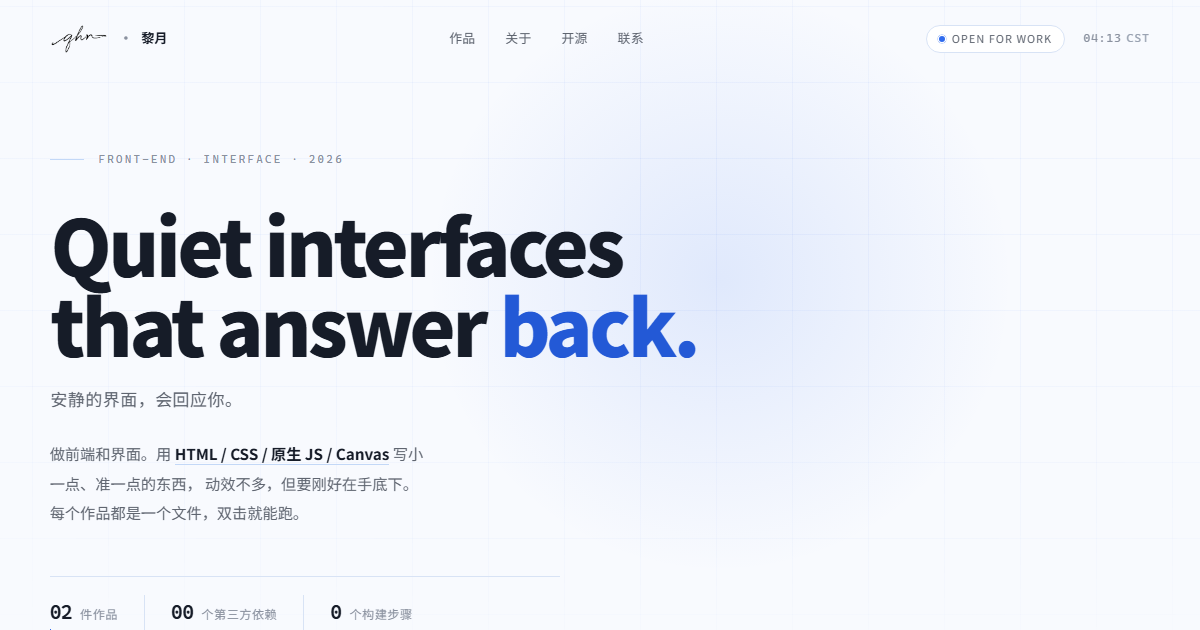
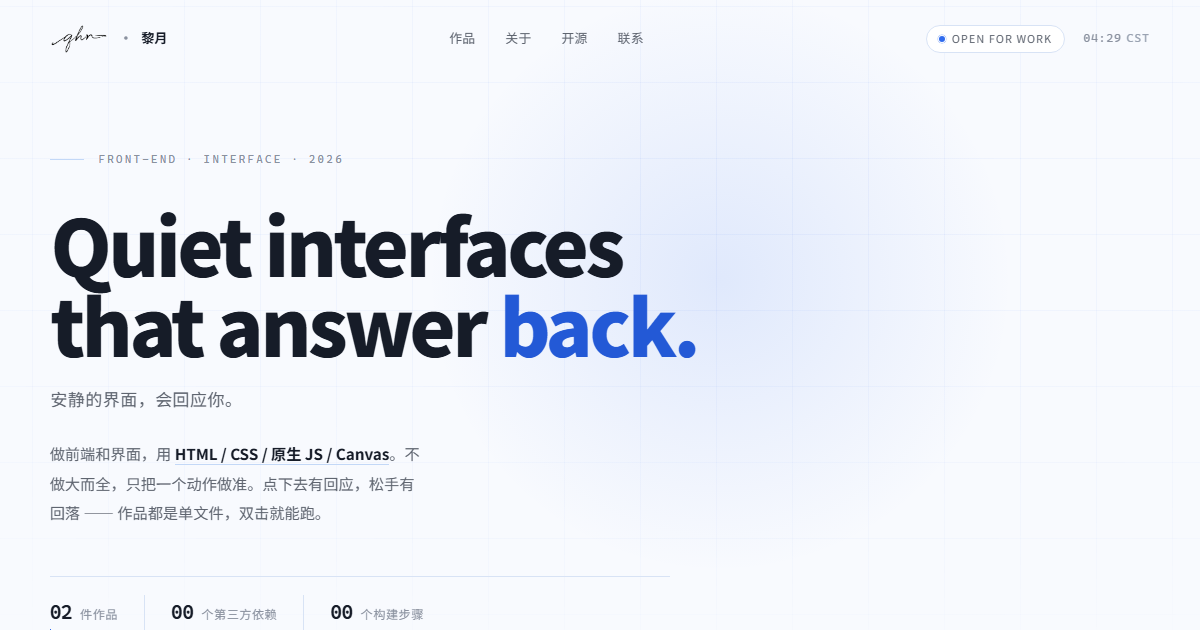
Copy: 首页文案重写
- hero: 收短，讲清「不做大而全，只把一个动作做准」
- 作品 01/02: 去重复表述，补具体细节（30KB 单文件 / 风级与背景可切）
- About: 从白纸开工的具体做法，去掉口号感
- Skill 01/02: 说明更短，pixel-plants 补 PF.mount() 一句
- 联系与页脚微调，og:description 同步，重出分享图

Changed region(s): [[0.0308, 0.754, 0.3392, 0.8444], [0.2775, 0.9651, 0.37, 0.9952], [0.3392, 0.6937, 0.37, 0.7238]]

diff --git a/index.html b/index.html
@@ -4,13 +4,13 @@
 <meta charset="utf-8">
 <meta name="viewport" content="width=device-width, initial-scale=1, viewport-fit=cover">
 <title>黎月 · Front-end & Interface</title>
-<meta name="description" content="黎月的前端作品集：用原生 HTML、CSS、Canvas 做小而有手感的东西。每个作品都是一个文件，双击就能跑。">
+<meta name="description" content="黎月的前端作品集：用 HTML、CSS、原生 JS 和 Canvas，把一个动作做准。作品都是单文件，双击就能跑。">
 <meta name="theme-color" content="#F8FAFE">
 <link rel="icon" href="assets/favicon.ico">
 <meta property="og:type" content="website">
 <meta property="og:site_name" content="黎月 · Front-end & Interface">
 <meta property="og:title" content="黎月 · Front-end & Interface">
-<meta property="og:description" content="安静的界面，会回应你。用原生 HTML、CSS、Canvas 做小而有手感的东西。">
+<meta property="og:description" content="安静的界面，会回应你。不做大而全，只把一个动作做准——作品都是单文件，双击就能跑。">
 <meta property="og:url" content="https://liyuedev.github.io/">
 <meta property="og:image" content="https://liyuedev.github.io/assets/preview.png">
 <meta property="og:image:width" content="1200">
@@ -569,13 +569,12 @@ footer .fright a:hover{color:var(--blue-deep)}
     </h1>
     <p class="hero-zh">安静的界面，会回应你。</p>
     <p class="lede">
-      做前端和界面。用 <b>HTML / CSS / 原生 JS / Canvas</b> 写小一点、准一点的东西，
-      动效不多，但要刚好在手底下。每个作品都是一个文件，双击就能跑。
+      做前端和界面，用 <b>HTML / CSS / 原生 JS / Canvas</b>。不做大而全，只把一个动作做准。点下去有回应，松手有回落 —— 作品都是单文件，双击就能跑。
     </p>
     <div class="stats">
       <span><b>02</b>件作品</span>
       <span><b>00</b>个第三方依赖</span>
-      <span><b>0</b>个构建步骤</span>
+      <span><b>00</b>个构建步骤</span>
     </div>
 
     <aside class="hero-index" aria-label="作品索引">
@@ -598,7 +597,7 @@ footer .fright a:hover{color:var(--blue-deep)}
 
     <!-- 01 -->
     <article class="card card--wide reveal">
-      <div class="preview" data-src="star-rain.html" data-title="把雨接成星光 · 实时预览">
+      <div class="preview" data-src="star-rain.html?embed=1" data-title="把雨接成星光 · 实时预览">
         <div class="cover">
           <strong>Canvas · Live</strong>
           <em>实时运行中</em>
@@ -612,10 +611,7 @@ footer .fright a:hover{color:var(--blue-deep)}
         <h3>把雨接成星光</h3>
         <div class="sub">Rain, kept as starlight</div>
         <p class="en">Every drop an umbrella catches comes back as light.</p>
-        <p class="zh">
-          一把伞接住落下来的雨，每一滴被接住的雨都会变成星光，慢慢飘回天上。
-          整场雨在 Canvas 里逐帧算出来，没有库，没有素材包。
-        </p>
+        <p class="zh">一把伞接住落下来的雨。每一滴被接住的，都会变成一点星光，慢慢飘回天上。整场雨在 Canvas 里逐帧算出来，整页不到 30KB，没有库，也没有素材包。</p>
         <div class="tags">
           <span class="tag">Canvas 2D</span>
           <span class="tag">粒子系统</span>
@@ -649,10 +645,7 @@ footer .fright a:hover{color:var(--blue-deep)}
         <h3>风过梨花</h3>
         <div class="sub">Wind tree · 像素花树</div>
         <p class="en">Pixel blossoms wired to a real skeleton — wind walks down the branches, nothing is a loop.</p>
-        <p class="zh">
-          两百多根关节连成一棵像素花树，风从枝头一段一段传下去，不是循环动画。
-          点一下树，花瓣就松手；按住枝条，还能把它拉弯。整页单文件，没有素材包。
-        </p>
+        <p class="zh">两百多根关节连成一棵像素花树。风从根到枝，一段一段传下去，不是循环动画。点一下，花瓣松手；按住枝条，能把它拉弯。深浅配色、风级、背景都在页面里直接切，整页单文件，没有素材包。</p>
         <div class="tags">
           <span class="tag">骨骼动画</span>
           <span class="tag">像素美术</span>
@@ -683,11 +676,7 @@ footer .fright a:hover{color:var(--blue-deep)}
     <div class="about">
       <div class="about-lead reveal">
         <h2>少一点脚手架，<br>多一点<em>手感</em>。</h2>
-        <p>
-          我是黎月，做前端和界面，也写一点桌面端。
-          习惯从一张白纸开始，把颜色、间距、动效一格一格推到刚好 ——
-          不多一格，也不少一格。白天写代码，晚上玩像素和雨。
-        </p>
+        <p>我是黎月，做前端和界面，也写一点桌面端。一般从一张白纸开始：先定一条基线、一个主色，再把间距和动效一格一格推到刚好 —— 不多一格，也不少一格。白天写代码，晚上养像素和雨。</p>
         <img class="sign" src="assets/avatar.png" alt="手写签名">
       </div>
 
@@ -697,7 +686,7 @@ footer .fright a:hover{color:var(--blue-deep)}
             <span class="n">01</span>
             <div>
               <h4>少文件，少出错</h4>
-              <p>没有构建步骤，没有依赖树。一个文件拷到任何电脑上都能打开，五年前也一样。</p>
+              <p>没有构建，没有依赖树。一个文件拷到任何电脑上就能打开 —— 五年前做的那个也一样。</p>
             </div>
           </li>
           <li>
@@ -711,7 +700,7 @@ footer .fright a:hover{color:var(--blue-deep)}
             <span class="n">03</span>
             <div>
               <h4>留白不是空</h4>
-              <p>少放一个元素，眼睛就多一次呼吸。克制是设计的一部分，不是妥协。</p>
+              <p>少放一个元素，视线就多一次呼吸。克制是设计的一部分，不是妥协。</p>
             </div>
           </li>
         </ul>
@@ -744,7 +733,7 @@ footer .fright a:hover{color:var(--blue-deep)}
         </div>
         <h3>liyue-air-design</h3>
         <p class="en">A visual style skill for AI agents — how things look, not how pages are built.</p>
-        <p class="zh">只给风格，不规定版式。这一页的配色、字体、圆角、阴影和缓动都出自这一份 SKILL.md；仓库里另有一张 token 表，色值可以直接抄。</p>
+        <p class="zh">只谈风格，不管版式。这一页的配色、字体、圆角、阴影、缓动，都出自这份 SKILL.md；仓库里另有 token 表，色值可以直接抄。</p>
         <div class="clone">git clone https://github.com/LiyueDev/liyue-air-design.git</div>
         <a class="open" href="https://github.com/LiyueDev/liyue-air-design" target="_blank" rel="noopener">
           在 GitHub 上查看
@@ -851,7 +840,7 @@ footer .fright a:hover{color:var(--blue-deep)}
         </div>
         <h3>liyue-pixel-plants</h3>
         <p class="en">A pixel-plant skill — trees that sway, without writing an engine.</p>
-        <p class="zh">引擎在库里，六种预设：桃、樱、梨、银杏、灌木、松。风、落花、摇晃、掉叶和点击抖动都已封装，零依赖的原生 Canvas。</p>
+        <p class="zh">引擎已经在库里：桃、樱、梨、银杏、灌木、松六种预设，风、落花、摇晃、掉叶、点击抖动都封好了。零依赖的原生 Canvas，一行 PF.mount() 就长出一棵树。</p>
         <div class="clone">git clone https://github.com/LiyueDev/liyue-pixel-plants.git</div>
         <div class="skill-links">
           <a class="open" href="https://github.com/LiyueDev/liyue-pixel-plants" target="_blank" rel="noopener">
@@ -906,7 +895,7 @@ footer .fright a:hover{color:var(--blue-deep)}
         </a>
       </div>
       <div class="contact-side">
-        <p>接前端实现、交互细节和单文件小玩意。<br>一般两天内回信。</p>
+        <p>接前端实现、交互细节，也接单文件的小玩意。<br>平时两天内回信。</p>
         <div class="links2">
           <a href="https://github.com/LiyueDev" target="_blank" rel="noopener">GitHub</a>
           <a href="https://github.com/LiyueDev/liyue-air-design" target="_blank" rel="noopener">设计系统</a>
@@ -919,7 +908,7 @@ footer .fright a:hover{color:var(--blue-deep)}
 
 <footer>
   <div class="wrap" style="display:flex;align-items:center;justify-content:space-between;gap:18px;flex-wrap:wrap;width:100%">
-    <small>© <span id="year">2026</span> 黎月 · 一个文件写成的站点</small>
+    <small>© <span id="year">2026</span> 黎月 · 手写页面，没有构建步骤</small>
     <div class="fright"><span>UTC+8</span><span>No build step</span><a href="https://github.com/LiyueDev" target="_blank" rel="noopener">Open source ↗</a></div>
   </div>
 </footer>
